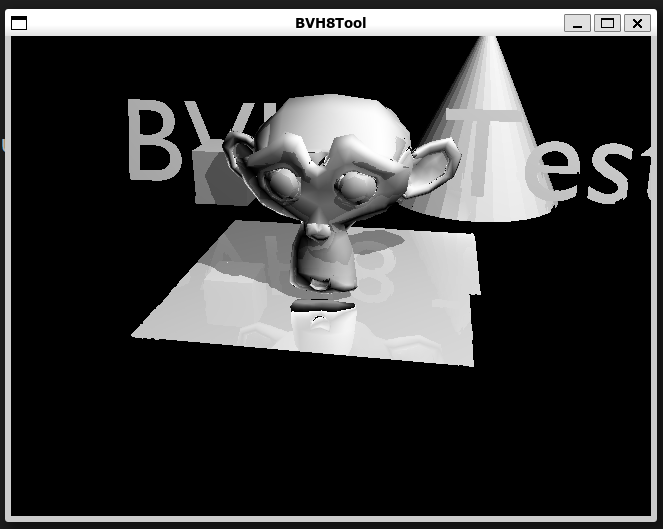
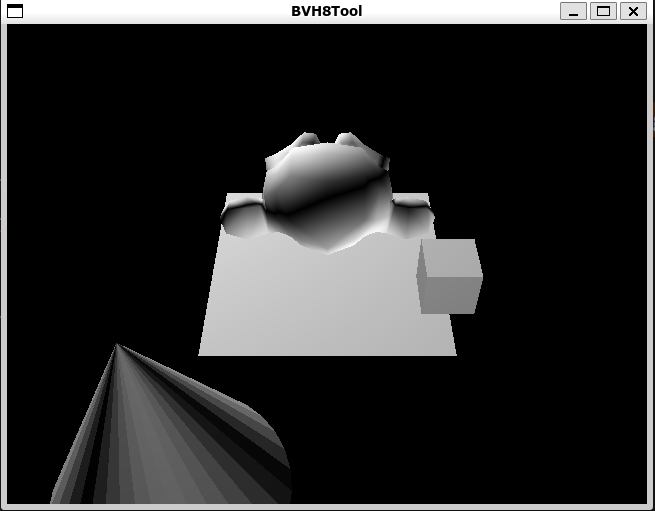
Updated readme and camera orientation (stopped rotation)

diff --git a/lbvhtool.cpp b/lbvhtool.cpp
@@ -265,14 +265,14 @@ static int DispatcherThread(void *data)
 					SVec128 raylenvec{t,t,t,0.f};
 					SVec128 pxVec{px,px,px,0.f};
 					SVec128 L = EVecMul(vec->rc->lookMat.r[0], pxVec);
-					SVec128 traceRay = EVecMul(EVecAdd(EVecAdd(L, U), vec->rc->F), raylenvec);
-					SVec128 invRay = EVecRcp(traceRay);
+					SVec128 rayDir = EVecMul(EVecAdd(EVecAdd(L, U), vec->rc->F), raylenvec);
+					SVec128 rayEnd = EVecAdd(vec->rc->rayOrigin, rayDir);
 
 					uint32_t hitNode = 0xFFFFFFFF;
-					SVec128 hitpos = EVecAdd(vec->rc->rayOrigin, traceRay);
+					SVec128 hitpos;
 					uint32_t marchCount = 0;
 
-					FindClosestHitLBVH(testLBVH, lbvhLeafCount, vec->rc->rayOrigin, traceRay, t, hitpos, hitNode, ClosestHitLBVH);
+					FindClosestHitLBVH(testLBVH, lbvhLeafCount, vec->rc->rayOrigin, rayEnd, t, hitpos, hitNode, ClosestHitLBVH);
 
 					float final = 0.f;
 
@@ -286,7 +286,7 @@ static int DispatcherThread(void *data)
 						SVec128 invSunRay = EVecRcp(sunRay);
 						SVec128 nrm;
 
-						SVec128 viewRay = EVecNorm3(traceRay);
+						SVec128 viewRay = EVecNorm3(rayDir);
 
 						// Global + NdotL
 						{
@@ -465,7 +465,7 @@ int SDL_main(int _argc, char** _argv)
 		thrd[i] = SDL_CreateThread(DispatcherThread, "DispatcherThread", (void*)&wc[i]);
 	}
 
-	rc.rotAng = 0.f;
+	rc.rotAng = 3.141592f;
 	rc.aspect = float(height) / float(width);
 	rc.nil = SVec128{0.f, 0.f, 0.f, 0.f};
 	rc.negepsilon = SVec128{-0.02f, -0.02f, -0.02f, 0.f};
@@ -520,7 +520,7 @@ int SDL_main(int _argc, char** _argv)
 		} while (!distributedAll); // We're done handing out jobs
 
 		// Rotate
-		rc.rotAng += 0.01f;
+		//rc.rotAng += 0.05f;
 
 		// Wait for all threads to be done with locked image pointer before updating window image
 		/*int tdone;

diff --git a/README.md b/README.md
@@ -1,7 +1,8 @@
 # BVH Tool
 
-A tool that will process input geometry and produce a BVH structure using LBVH code.
-
+A tool that will process input geometry and produce a BVH structure using LBVH method.
+You can read more on this subject here:
+https://research.nvidia.com/publication/2012-06_maximizing-parallelism-construction-bvhs-octrees-and-k-d-trees
 
 ## Summary
 
@@ -42,9 +43,9 @@ If everything went well, you should see something similar to the following in th
 - Cube  | vertices > 519        | texcoords > 574       | normals > 1121        | triangles > 0 | material: None
 - Text  | vertices > 1135       | texcoords > 1190      | normals > 1132        | triangles > 0 | material: None
 - Cone  | vertices > 1168       | texcoords > 1255      | normals > 1165        | triangles > 0 | material: None
-Using automatic cell size: 0.244319
+LBVH data generated. Leaf node count:1653
 ```
 
-After a short while (on first run) the following rotating scene should be displayed in a window:
+After a short while (on first run) the following scene should be displayed in a window.
 
 ![Sample Output](images/output.png)
